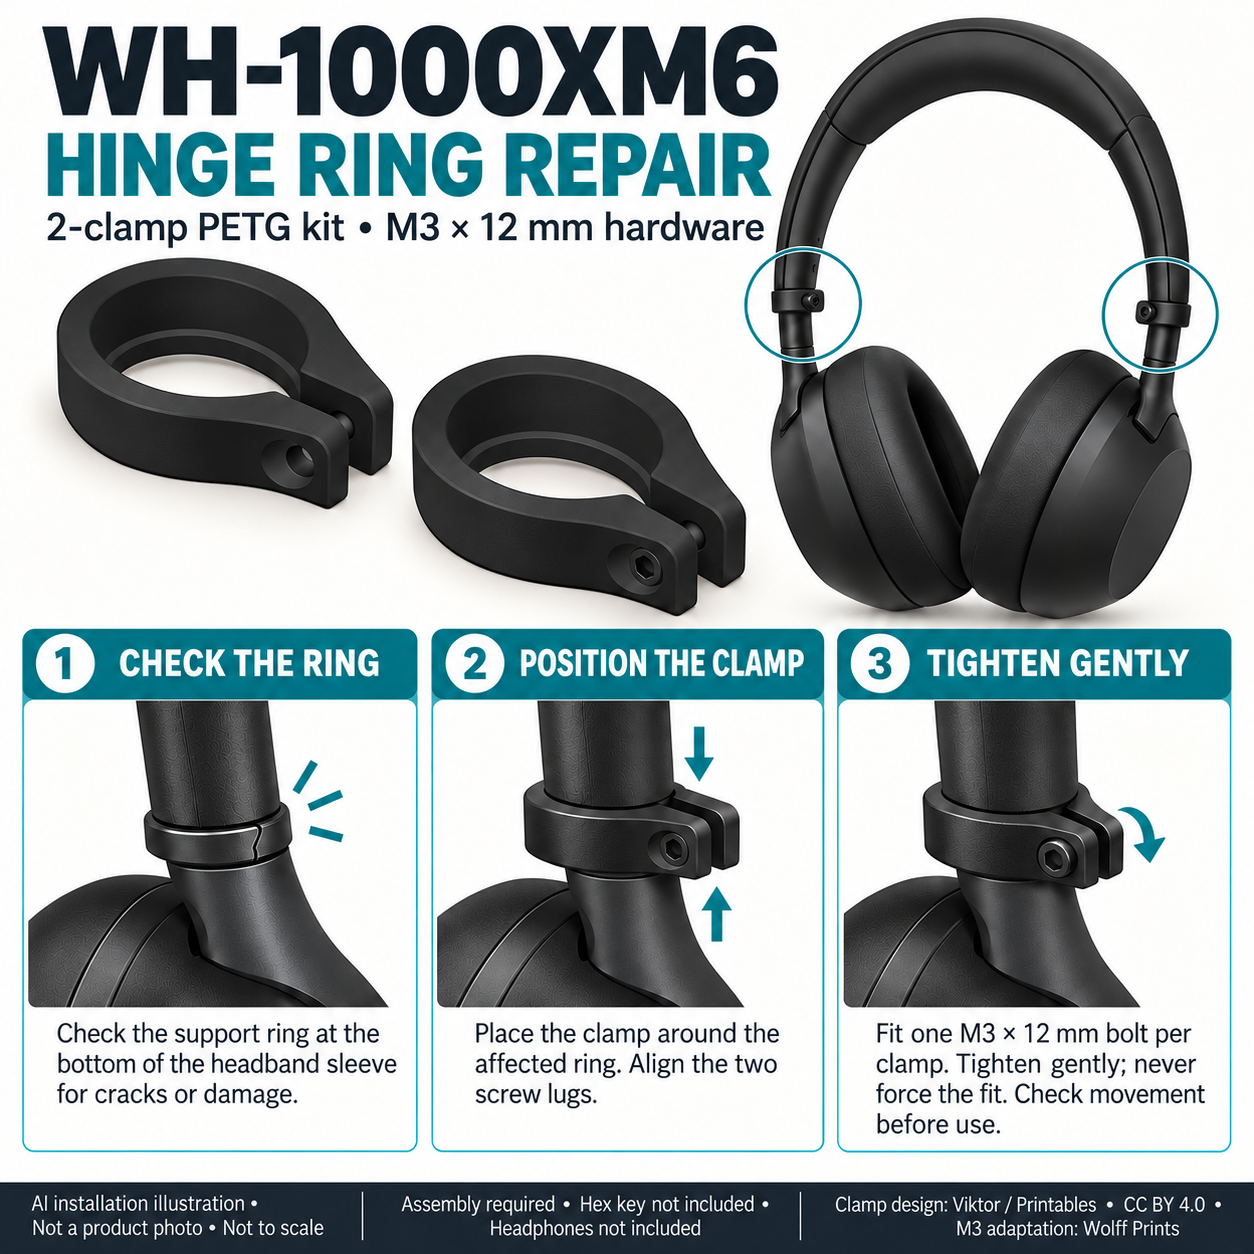
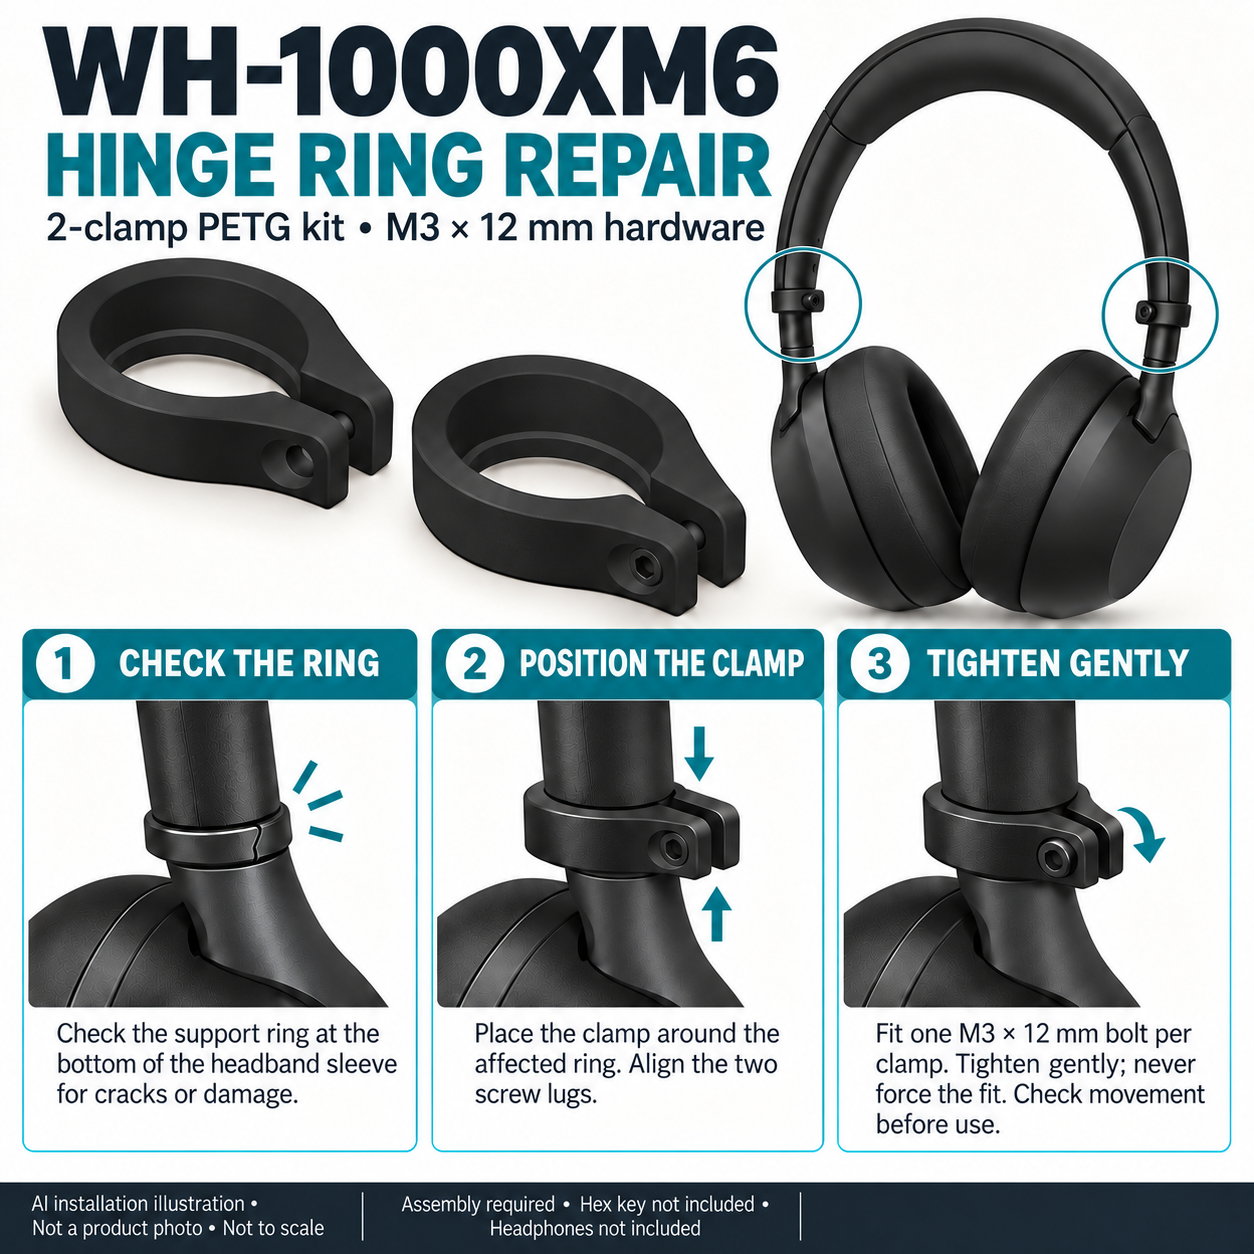
Clear right footer cell in XM6 installation guide

diff --git a/remixes/sony-xm6-m3-hinge-clamps/README.md b/remixes/sony-xm6-m3-hinge-clamps/README.md
@@ -27,6 +27,6 @@ Files: editable SCAD, single STL, paired STL, native paired PETG 3MF, QA records
 
 ## M3 × 12 mm illustrated quick guide
 
-Current guide: `images/installation-guide-m3x12-ai.png`, generated with the built-in imagegen tool from the earlier guide, final M3 clamp CAD preview and creator's installed reference. Exact generation prompt retained in `images/guide-m3x12-prompt.txt`. Three steps: check the sleeve-end support ring, position the original curved clamp, fit one M3×12 bolt per clamp and tighten gently/check movement. Black socket heads; assembly required; hex key and headphones excluded. Clearly labeled **AI illustration, not a product photo, not to scale**, with Viktor / Printables / CC BY 4.0 attribution and Wolff Prints M3 adaptation credit.
+Current guide: `images/installation-guide-m3x12-ai.png`, generated with the built-in imagegen tool from the earlier guide, final M3 clamp CAD preview and creator's installed reference. Exact generation prompt retained in `images/guide-m3x12-prompt.txt`. Three steps: check the sleeve-end support ring, position the original curved clamp, fit one M3×12 bolt per clamp and tighten gently/check movement. Black socket heads; assembly required; hex key and headphones excluded. Clearly labeled **AI illustration, not a product photo, not to scale**. Per Richard’s requested cleanup, the bottom-right footer cell is now blank; attribution remains in this README and the listing description.
 
 Guide intentionally does not depict the rear nut/washer arrangement, which is awaiting clarification from Richard. It does not establish physical installation or durability. Old M2 guides remain historical assets only and must not be used for this M3 kit.

diff --git a/remixes/sony-xm6-m3-hinge-clamps/images/guide-m3x12-review.md b/remixes/sony-xm6-m3-hinge-clamps/images/guide-m3x12-review.md
@@ -5,6 +5,6 @@
 - Correct sleeve-end support-ring placement shown conceptually above earcup yokes.
 - Three steps, gentle tightening and movement check. No glue, disassembly, heatproof or guaranteed-repair claims.
 - Assembly required, hex key and headphones excluded.
-- AI / not product photo / not to scale disclosure and creator/remix attribution legible.
+- AI / not product photo / not to scale disclosure legible. Bottom-right credit/adaptation cell cleared at Richard’s request; other panels/text preserved. Attribution retained separately in README/listing description.
 - Rear nut/washer arrangement not shown; no direct-thread or exact hardware-stack claim. Its clarification remains pending.
 - This is an internally reviewed conceptual illustration, not proof of an installed fit test.
